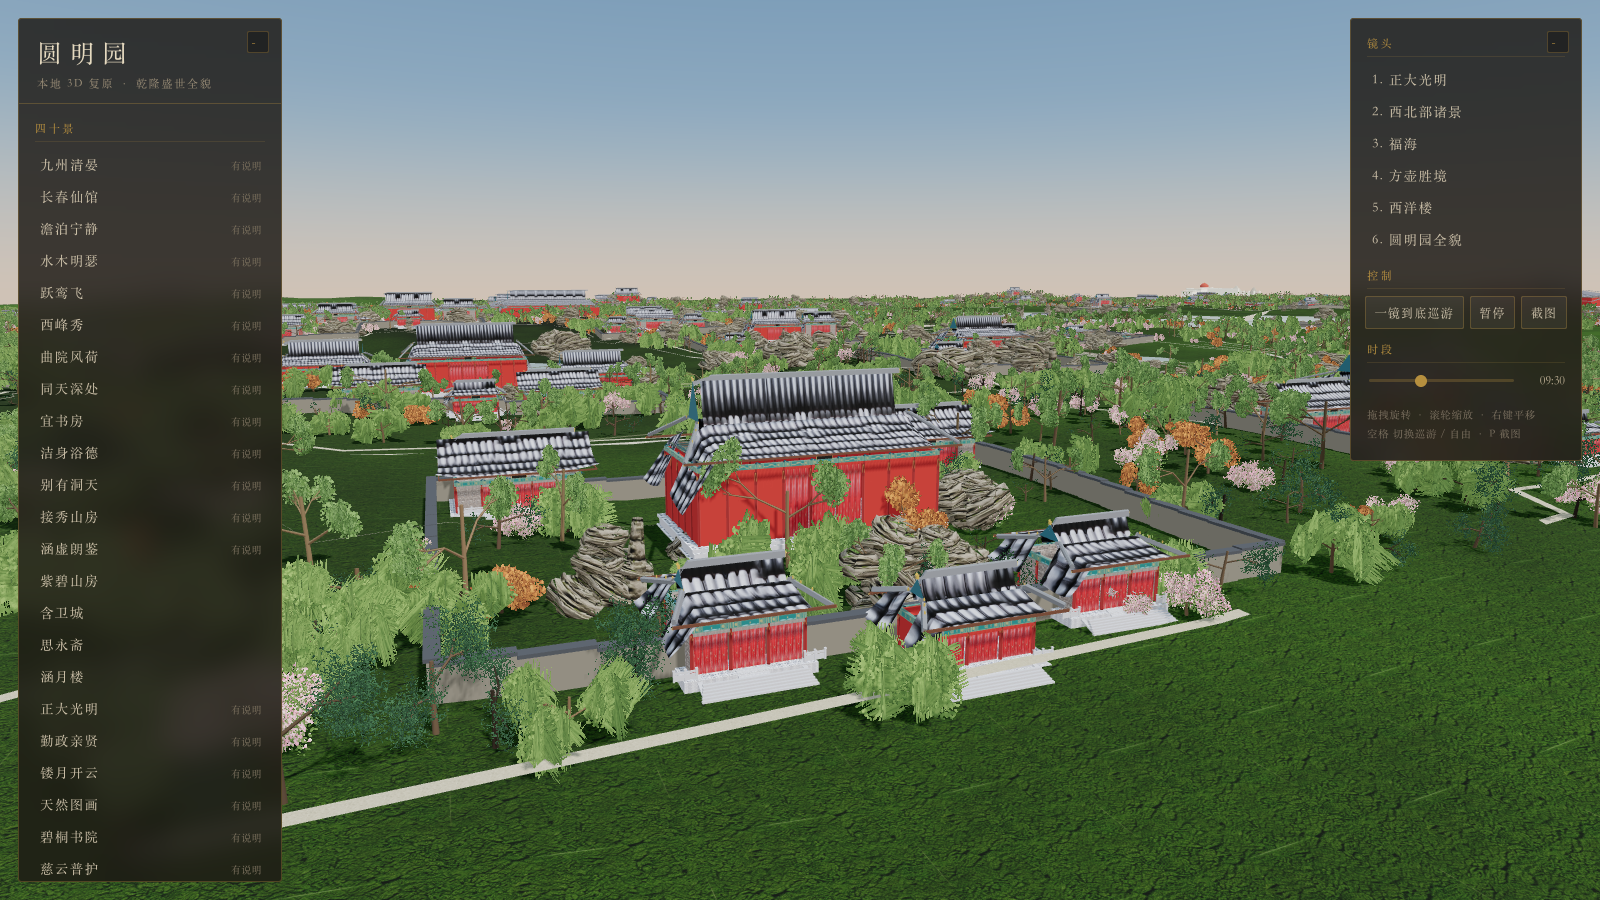
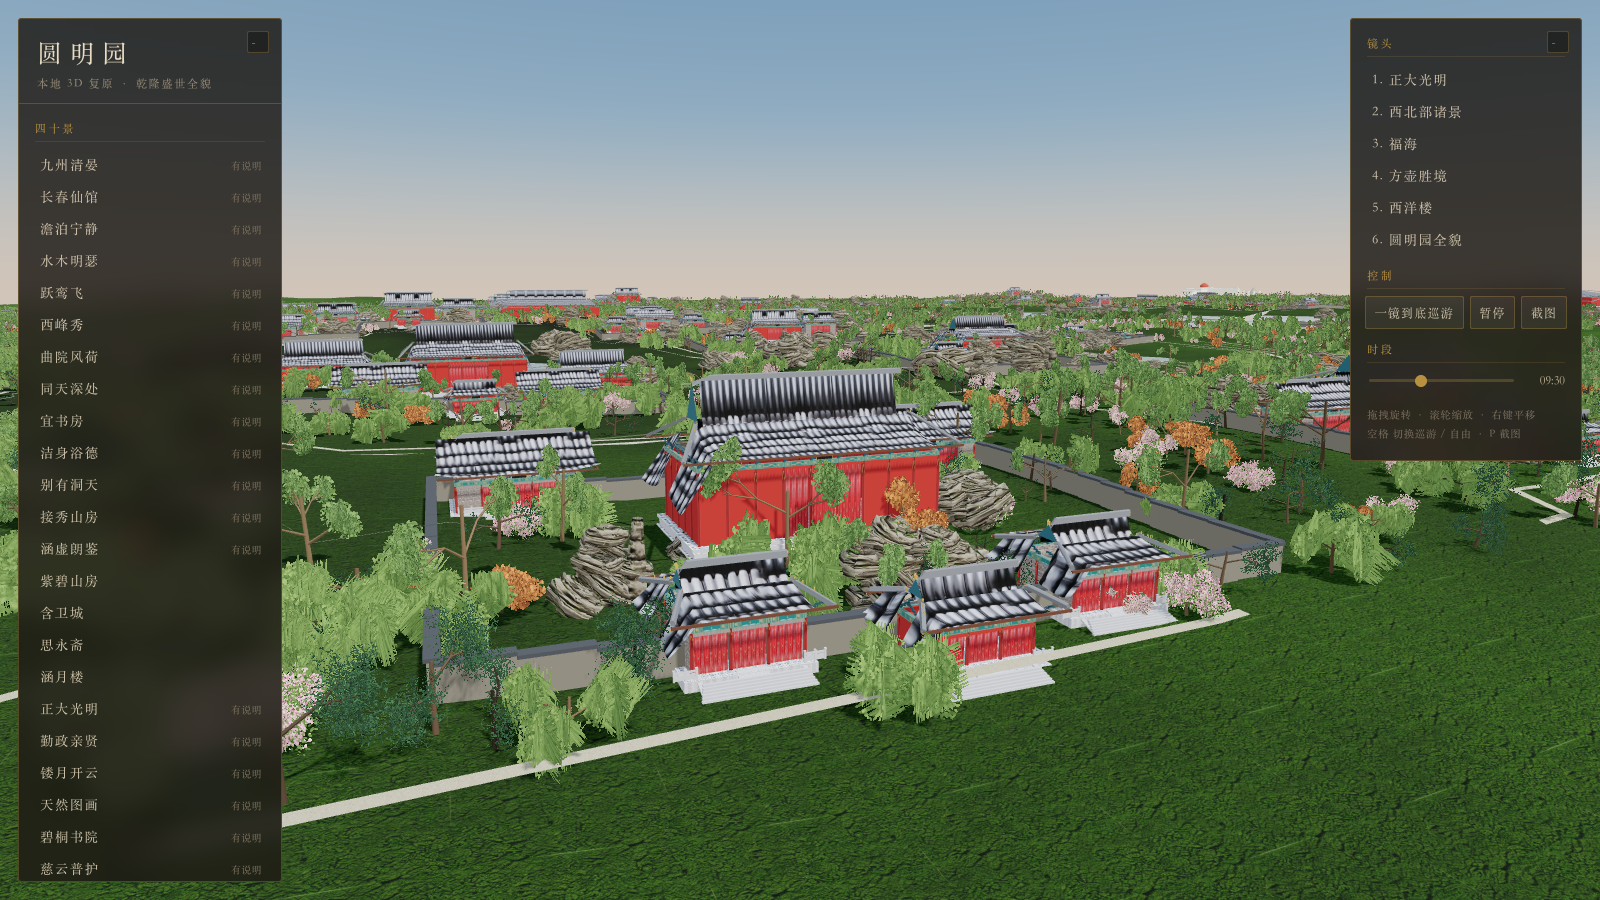
fix: 斗栱 NaN 与比例失真，修正模数
- 斗栱里引用了不存在的 D.shiBaBottom（应为 D.shiBaDou），
  算出的 NaN 只污染 X 坐标 —— 表现为整攒斗栱被渲染成不可见
- 模数按清式大式实际尺度重定：
  坐斗 0.30 见方/高 0.26、每跳出挑 0.62、昂斜度 0.22、
  断面 0.20、蚂蚱头/耍头 0.55
  → 出挑 2.50m、通高 1.02m（比例约 1:2.5，与实物相符）
- 早前构件造时乘一次 s、装配时又乘一次，出挑会变成 s² 倍，已改为统一缩放
- 出檐与斗栱出挑对齐（overhang = 斗栱总出挑 + 飞椽）
- 加开发期自检：场景构建后遍历几何体，报告 NaN 顶点

diff --git a/src/scene/buildings/parts/dougong.js b/src/scene/buildings/parts/dougong.js
@@ -19,19 +19,25 @@
 import * as THREE from 'three';
 import { mergeGeometries } from 'three/examples/jsm/utils/BufferGeometryUtils.js';
 
+/**
+ * 模数（米）。以清式大式建筑的实际尺度为准：
+ *   坐斗底面 0.30 见方、总高 0.26；三跳累计出挑约 1.8m；
+ *   蚂蚱头/耍头再挑出约 0.55m；通高约 0.92m。
+ * 比例上"竖高 : 横长"约 1 : 2.6，这正是斗栱看起来的样子。
+ */
 const D = {
   zDouBottom: 0.3, // 坐斗斗底边长
-  zDouHeight: 0.24, // 坐斗总高
-  douEar: 0.07, // 斗耳高
-  douWaist: 0.08, // 斗腰高
+  zDouHeight: 0.26, // 坐斗总高
+  douEar: 0.075, // 斗耳高
+  douWaist: 0.09, // 斗腰高
   shiBaDou: 0.18, // 十八斗底边长
-  shiBaHeight: 0.14,
+  shiBaHeight: 0.16,
   sheng: 0.13, // 升底边长
   shengHeight: 0.1,
-  armSection: 0.16, // 翘/昂断面
-  armLength: 0.9, // 每跳水平出挑
-  angSlope: 0.34, // 昂的斜度（垂直/水平）
-  tiaoLength: 0.62, // 蚂蚱头/耍头挑出长
+  armSection: 0.2, // 翘/昂断面
+  armLength: 0.62, // 每跳水平出挑
+  angSlope: 0.22, // 昂的斜度（垂直/水平）
+  tiaoLength: 0.55, // 蚂蚱头/耍头挑出长
 };
 
 /** 方锥台：上小下大的斗（栌斗/十八斗/升） */
@@ -148,51 +154,54 @@ function makeShuaTou(len, section) {
 export function buildDougongSet(scale = 1, axis = 'x') {
   const parts = [];
   const s = scale;
+
+  // 所有尺寸先用**未缩放**的模数算好，最后统一乘 s。
+  // （早前在造构件时乘一次、装配时又乘一次，出挑会变成 s² 倍。）
   const P = (g, x, y, z) => {
     g.scale(s, s, s);
     g.translate(x * s, y * s, z * s);
     parts.push(g);
   };
 
-  const sec = D.armSection * s;
-  const jump = D.armLength * s;
+  const sec = D.armSection;
+  const jump = D.armLength;
 
   // 坐斗
-  const zdou = makeDou(D.zDouBottom * s, D.zDouHeight * s);
+  const zdou = makeDou(D.zDouBottom, D.zDouHeight);
   P(zdou, 0, 0, 0);
 
-  let y = D.zDouHeight * s;
+  let y = D.zDouHeight;
   let x = 0;
 
-  // 第一跳：昂（斜出）+ 其上十八斗
+  // 第一跳：昂（斜出）+ 昂上十八斗
   const ang = makeAng(jump, sec);
   P(ang, x, y + sec * 0.5, 0);
-  const angTipX = x + jump * s;
-  const angTipY = y + sec * 0.5 - jump * s * D.angSlope;
-  const sb1 = makeDou(D.shiBaDou * s, D.shiBaHeight * s);
-  P(sb1, angTipX - D.shiBaBottom * 0.3 * s, angTipY + D.shiBaHeight * 0.5 * s, 0);
+  const angTipX = x + jump;
+  const angTipY = y + sec * 0.5 - jump * D.angSlope;
+  const sb1 = makeDou(D.shiBaDou, D.shiBaHeight);
+  P(sb1, angTipX - D.shiBaDou * 0.3, angTipY + D.shiBaHeight * 0.5, 0);
 
   // 第二跳：翘（平出）
-  y = angTipY + D.shiBaHeight * s + sec * 0.5;
-  x = angTipX - D.shiBaBottom * 0.3 * s;
+  y = angTipY + D.shiBaHeight + sec * 0.5;
+  x = angTipX - D.shiBaDou * 0.3;
   const qiao2 = makeQiao(jump, sec);
   P(qiao2, x, y, 0);
-  const t2x = x + jump * s;
-  const sb2 = makeDou(D.shiBaDou * s, D.shiBaHeight * s);
-  P(sb2, t2x - D.shiBaBottom * 0.3 * s, y + D.shiBaHeight * 0.5 * s, 0);
+  const t2x = x + jump;
+  const sb2 = makeDou(D.shiBaDou, D.shiBaHeight);
+  P(sb2, t2x - D.shiBaDou * 0.3, y + D.shiBaHeight * 0.5, 0);
 
   // 第三跳：翘
-  y = y + D.shiBaHeight * s + sec * 0.5;
-  x = t2x - D.shiBaBottom * 0.3 * s;
+  y = y + D.shiBaHeight + sec * 0.5;
+  x = t2x - D.shiBaDou * 0.3;
   const qiao3 = makeQiao(jump * 0.92, sec);
   P(qiao3, x, y, 0);
-  const t3x = x + jump * 0.92 * s;
+  const t3x = x + jump * 0.92;
 
   // 最上层：蚂蚱头 + 耍头
-  const mzt = makeMaZhaTou(D.tiaoLength * s, sec);
+  const mzt = makeMaZhaTou(D.tiaoLength, sec);
   P(mzt, t3x, y + sec * 0.5, 0);
-  const st = makeShuaTou(D.tiaoLength * 0.85 * s, sec);
-  P(st, t3x + D.tiaoLength * 0.5 * s, y + sec * 0.5, 0);
+  const st = makeShuaTou(D.tiaoLength * 0.85, sec);
+  P(st, t3x + D.tiaoLength * 0.5, y + sec * 0.5, 0);
 
   const merged = mergeGeometries(parts, false);
   for (const p of parts) p.dispose();
@@ -200,12 +209,20 @@ export function buildDougongSet(scale = 1, axis = 'x') {
   return merged;
 }
 
-/** 斗栱的总出挑（用于让屋檐出挑与斗栱对齐） */
+/** 斗栱的总出挑（含蚂蚱头/耍头），用于让屋檐出挑与斗栱对齐 */
 export function dougongProjection(scale = 1) {
-  return (D.armLength * 2.2 + D.tiaoLength * 0.5) * scale;
+  return (D.armLength * 2.92 + D.tiaoLength * 1.25) * scale;
 }
 
-/** 斗栱总高（约 1.25m，与清式大式建筑相符） */
+/** 斗栱总高（按实际堆叠高度算出，不写死） */
 export function dougongHeight(scale = 1) {
-  return 1.25 * scale;
+  const sec = D.armSection;
+  const jump = D.armLength;
+  const drop = jump * D.angSlope;
+  // 坐斗顶 → 昂中 → 昂端（十八斗底）→ 翘 → 翘端（十八斗底）→ 翘 → 蚂蚱头顶
+  const y1 = D.zDouHeight + sec * 0.5 - drop * 0.5;
+  const y2 = y1 + D.shiBaHeight + sec * 0.5;
+  const y3 = y2 + D.shiBaHeight + sec * 0.5;
+  const top = y3 + sec * 1.05;
+  return top * scale;
 }

diff --git a/src/main.js b/src/main.js
@@ -377,6 +377,20 @@ async function loadScene() {
       `耗时 ${Math.round(performance.now() - t0)} ms`
   );
 
+  // 开发期自检：找出含 NaN 的几何体
+  scene.traverse((o) => {
+    if (!o.isMesh || !o.geometry) return;
+    const pos = o.geometry.attributes.position;
+    if (!pos) return;
+    const arr = pos.array;
+    for (let i = 0; i < arr.length; i++) {
+      if (!Number.isFinite(arr[i])) {
+        console.error('✗ NaN 几何体:', o.name || o.type, '父级:', o.parent?.name);
+        break;
+      }
+    }
+  });
+
   state.ready = true;
   initHud({
     state,

diff --git a/AGENTS.md b/AGENTS.md
@@ -60,11 +60,12 @@ X → 东     Z → 南     Y → 上
 - 单座建筑的几何**按材质合并**（`mergeGeometries`），每建筑控制在 6~8 个 draw call。
 - 假山：全部合并成**一个** Mesh（`nature.js` 的 `buildRockery`）。
 - 树木：按树种 + 变体**实例化**（`trees.js`，5 树种 × 4 变体 × 枝干/树冠 两组 InstancedMesh）。
+- 游廊：全部合并成 4 个 Mesh（`corridor.js` 的 `buildCorridors`）。
 - 水面：全部合并成**一个** Mesh（水位烘进顶点）；驳岸同理。
 - 步道：全部合并成**一个** Mesh。
 - 院墙：分段贴地但**整院合并**成 2 个 Mesh（墙身 + 压顶）。
 - 改动后跑一次 `npm run dev`，看控制台里的 `draw calls` 与三角面数，
-  **当前基线：约 5.3M 三角面 / 346 draw calls。**
+  **当前基线：约 9.3M 三角面 / 2822 draw calls。**
   数量级突变要查清楚原因（合并丢失是最常见的原因）。
 
 ## 4.1 视觉保真度是硬要求
@@ -83,6 +84,18 @@ X → 东     Z → 南     Y → 上
 | 光照 | 有环境光（IBL），背光面不死黑 |
 
 新增构件时要问一句：**这个远看像不像真的？**
+
+## 4.2 素材来源（国内网络）
+
+| 用途 | 走哪条路 | 备注 |
+|---|---|---|
+| OSM 要素 | Overpass，多端点轮询 + 退避 | `out geom` 会超时，按要素类型拆查询 |
+| 地形高程 | AWS Terrain Tiles (Terrarium) | z=14，Terrarium 解码 |
+| 官方导览图 | `www.yuanmingyuanpark.cn` | 10016×5197，标全全部景区 |
+| 扩散模型权重 | **ModelScope**（22MB/s） | hf-mirror 只有 500KB/s 且 xet 后端 401 |
+| PyPI 包 | 清华源 | torch 2.15 + MPS 可用 |
+
+⚠ ModelScope 上的 `.bin` 是 torch zip 格式，**改名成 `.safetensors` 会加载失败**。
 
 ## 5. 构建期 vs 运行期
 
